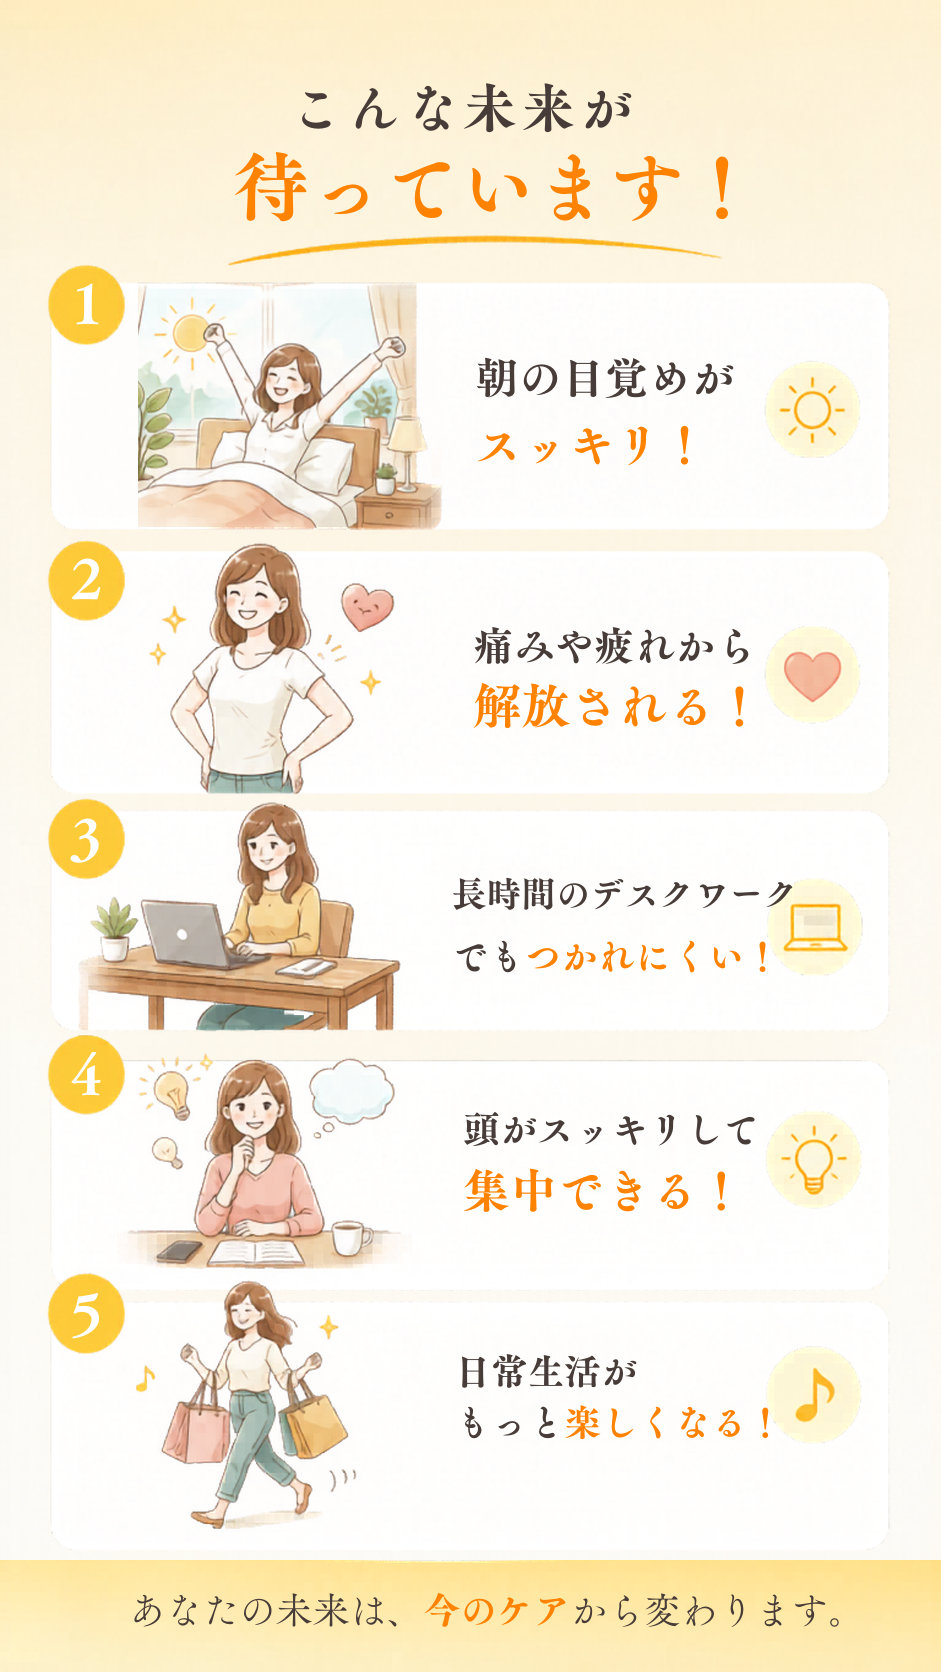
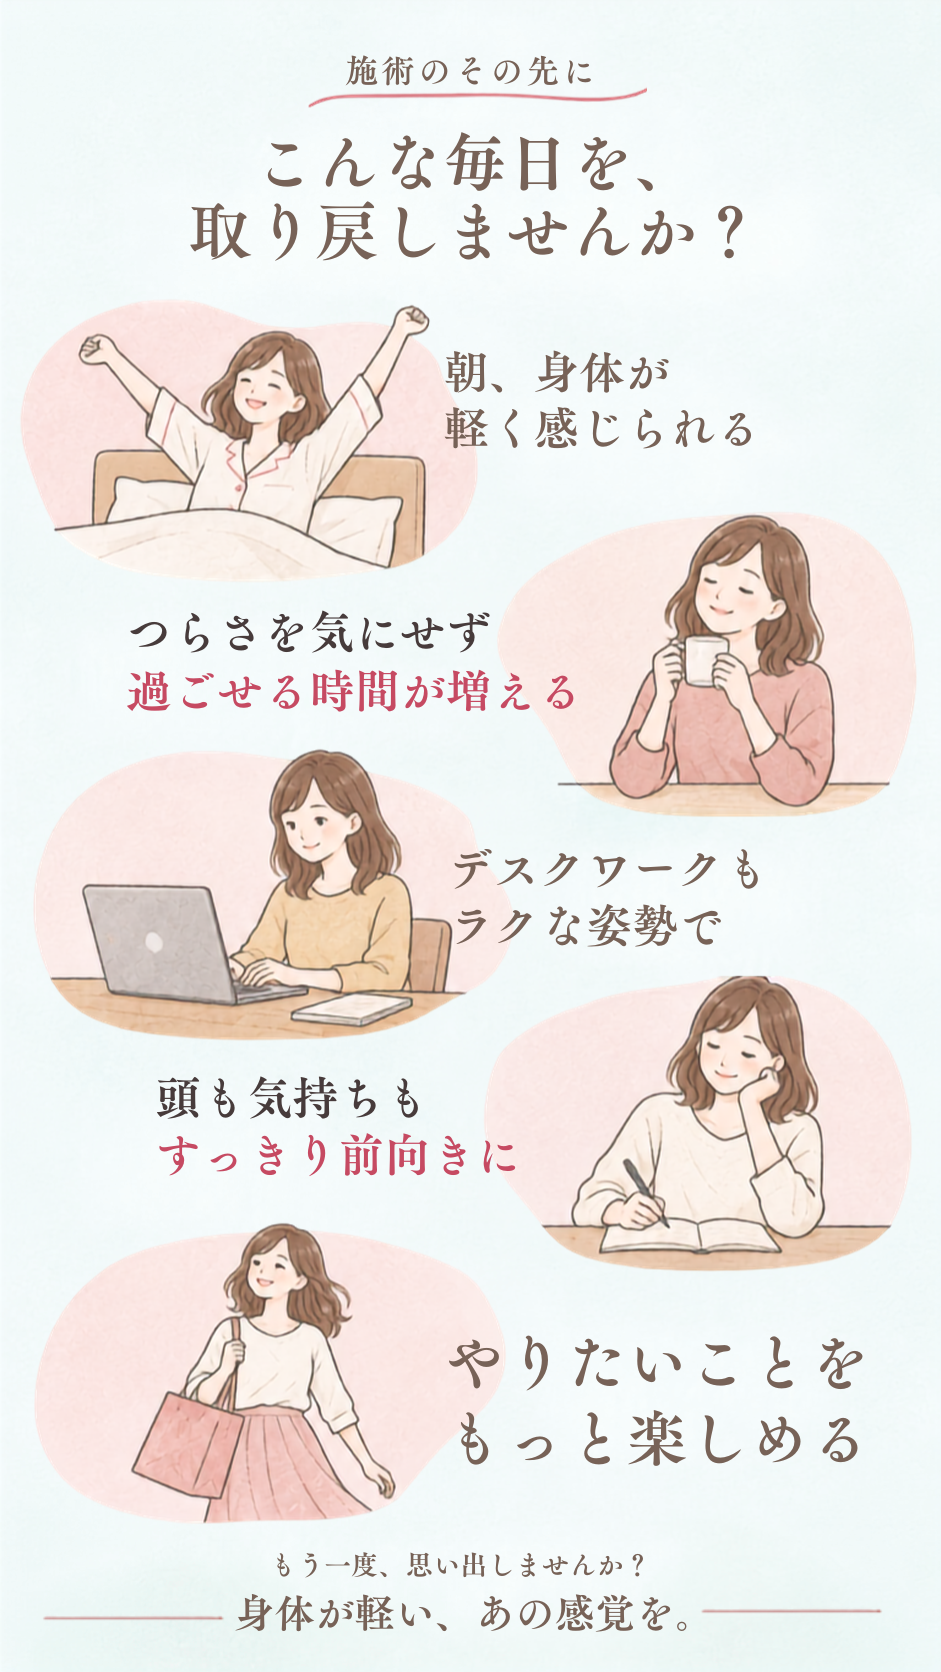
「こんな未来が待っています」の画像を新ビジュアルに差し替え
「施術のその先に／こんな毎日を、取り戻しませんか？」の新しいビジュアルへ。
朝の目覚め、過ごせる時間、デスクワーク、気持ち、やりたいこと の
5項目を挙げる構成に変わったため、alt文も画像の内容に合わせて更新した。

941x1672 で従来と同寸のため width/height の宣言は変更なし（CLSも変化なし）。

diff --git a/index.html b/index.html
@@ -127,7 +127,7 @@
     </section>
 
     <section class="image-section reveal" aria-label="こんな未来が待っています">
-      <img src="./assets/images/future-benefits.png" alt="朝の目覚め、痛みや疲れ、デスクワーク、集中力、日常生活について期待できる未来" width="941" height="1672" loading="lazy">
+      <img src="./assets/images/future-benefits.png" alt="施術のその先に、こんな毎日を取り戻しませんか？　朝、身体が軽く感じられる／つらさを気にせず過ごせる時間が増える／デスクワークもラクな姿勢で／頭も気持ちもすっきり前向きに／やりたいことをもっと楽しめる" width="941" height="1672" loading="lazy">
     </section>
 
     <section class="benefit-cta reveal" aria-label="初回無料体験のご案内">
